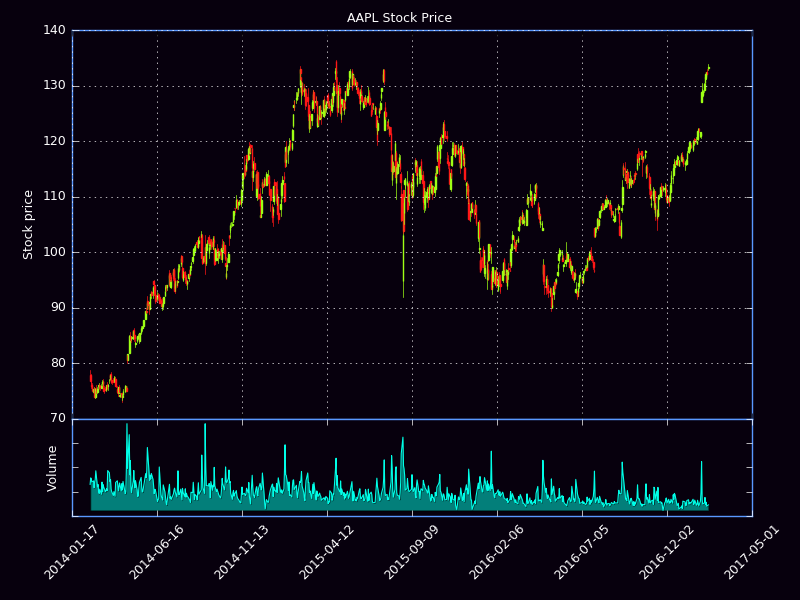
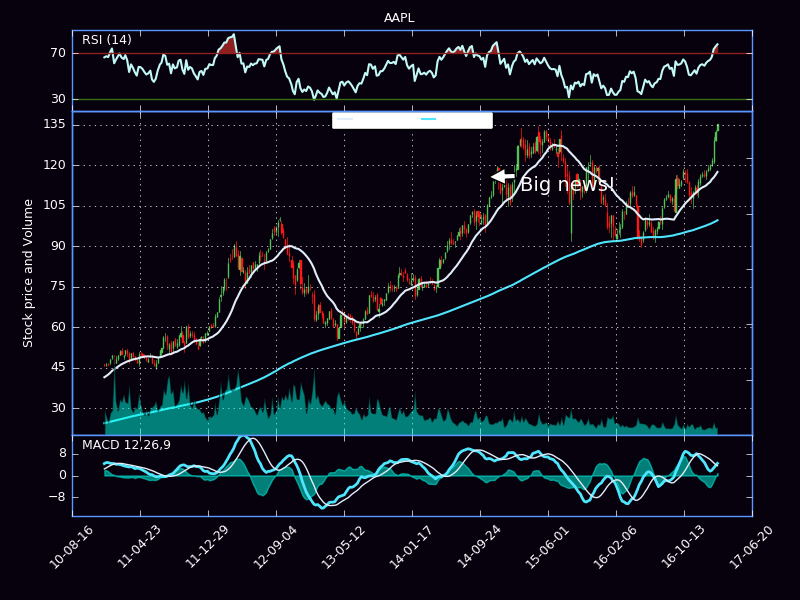
simulation added

diff --git a/PythonPlayground/Charting/basicGraph.py b/PythonPlayground/Charting/basicGraph.py
@@ -7,9 +7,9 @@ import matplotlib.dates as mdates
 from matplotlib.finance import _candlestick
 import matplotlib
 import pylab
+import urllib2
 matplotlib.rcParams.update({'font.size': 9})
 
-eachStock = 'EBAY', 'TSLA', 'AAPL'
 
 def rsiFunc(prices, n=14):
     deltas = np.diff(prices)
@@ -40,9 +40,45 @@ def movingaverage(values, window):
     smas = np.convolve(values, weights, 'valid')
     return smas
 
+def ExpMovingAverage(values, window):
+    weights = np.exp(np.linspace(-1., 0., window))
+    weights /= weights.sum()
+    a = np.convolve(values, weights, mode='full')[:len(values)]
+    a[:window] = a[window]
+    return a
+
+def computeMACD(x, slow=26, fast=12):
+    '''
+    macd line = 12ema - 26ema
+    signal line = 9ema of the macd line
+    histogram = macd line - signal line
+    '''
+    emaslow = ExpMovingAverage(x, slow)
+    emafast = ExpMovingAverage(x, fast)
+    return emaslow, emafast, emafast-emaslow
+
+
+
 def graphData(stock, MA1, MA2):
     try:
-        stockFile = stock +'.txt'
+        try:
+            print 'pulling data on',stock
+            urlToVisit = 'http://chartapi.finance.yahoo.com/instrument/1.0/'+stock+'/chartdata;type=quote;range=10y/csv'
+            stockFile = []
+            try:
+                sourceCode = urllib2.urlopen(urlToVisit).read()
+                splitSource = sourceCode.split('\n')
+                for eachLine in splitSource:
+                    splitLine = eachLine.split(',')
+                    if len(splitLine) == 6:
+                        if 'values' not in eachLine:
+                            stockFile.append(eachLine)
+        
+            except Exception, e:
+                print str(e), 'failed to organize pulled data'
+        
+        except Exception, e:
+            print str(e), 'failed to pull price data'
         
         date, closep, highp, lowp, openp, volume = np.loadtxt(stockFile, delimiter=',', unpack=True,
                          converters={0: mdates.strpdate2num('%Y%m%d')})
@@ -70,15 +106,16 @@ def graphData(stock, MA1, MA2):
 
 
 
-        ax1 = plt.subplot2grid((5,4), (1,0), rowspan=4, colspan=4, axisbg='#07000d')
-        _candlestick(ax1, candleAr[-SP:], width=.6, colorup='#9eff15', colordown='#ff1717')
+        ax1 = plt.subplot2grid((6,4), (1,0), rowspan=4, colspan=4, axisbg='#07000d')
+        _candlestick(ax1, candleAr[-SP:], width=.6, colorup='#53C156', colordown='#ff1717')
 
-        ax1.plot(date[-SP:], Av1[-SP:],'#5998ff',label=label1, linewidth=1.5)
-        ax1.plot(date[-SP:], Av2[-SP:],'#e1edf9',label=label2, linewidth=1.5)
+        ax1.plot(date[-SP:], Av1[-SP:],'#e1edf9',label=label1, linewidth=1.5)
+        ax1.plot(date[-SP:], Av2[-SP:],'#4ee6fd',label=label2, linewidth=1.5)
 
         ax1.grid(True, color='w')
         ax1.xaxis.set_major_locator(mticker.MaxNLocator(10))
         ax1.xaxis.set_major_formatter(mdates.DateFormatter('%y-%m-%d'))
+        plt.gca().yaxis.set_major_locator(mticker.MaxNLocator(prune='upper'))
         ax1.yaxis.label.set_color("w")
         ax1.spines['bottom'].set_color("#5998ff")
         ax1.spines['top'].set_color("#5998ff")
@@ -88,8 +125,7 @@ def graphData(stock, MA1, MA2):
         ax1.tick_params(axis='x', colors='w')
         plt.ylabel('Stock price and Volume')
 
-        for label in ax1.xaxis.get_ticklabels():
-            label.set_rotation(45)
+
 
 
 
@@ -99,57 +135,34 @@ def graphData(stock, MA1, MA2):
         pylab.setp(textEd[0:5], color = 'w')
 
 
-        ax0 = plt.subplot2grid((5,4), (0,0), sharex=ax1, rowspan=1, colspan=4, axisbg='#07000d')
+        ax0 = plt.subplot2grid((6,4), (0,0), sharex=ax1, rowspan=1, colspan=4, axisbg='#07000d')
         
         rsi = rsiFunc(closep)
 
-        rsiCol = '#00ffe8'
+        rsiCol = '#c1f9f7'
+        posCol = '#386d13'
+        negCol = '#8f2020'
         ax0.plot(date[-SP:], rsi[-SP:],rsiCol,linewidth=1.5)
-        ax0.axhline(70, color = rsiCol)
-        ax0.axhline(30, color = rsiCol)
+        ax0.axhline(70, color = negCol)
+        ax0.axhline(30, color = posCol)
         ax0.fill_between(date[-SP:], rsi[-SP:],70, 
-                            where=(rsi[-SP:] >= 70), facecolor=rsiCol, edgecolor=rsiCol)
+                            where=(rsi[-SP:] >= 70), facecolor=negCol, edgecolor=negCol)
 
         ax0.fill_between(date[-SP:], rsi[-SP:],30, 
-                            where=(rsi[-SP:] <= 30), facecolor=rsiCol, edgecolor=rsiCol)
+                            where=(rsi[-SP:] <= 30), facecolor=posCol, edgecolor=posCol)
         ax0.spines['bottom'].set_color("#5998ff")
         ax0.spines['top'].set_color("#5998ff")
         ax0.spines['left'].set_color("#5998ff")
         ax0.spines['right'].set_color("#5998ff")
+        ax0.text(0.015, 0.95,'RSI (14)', va='top', color='w', transform=ax0.transAxes)
         ax0.tick_params(axis='x', colors='w')
         ax0.tick_params(axis='y', colors='w')
         ax0.set_yticks([30,70])
         ax0.yaxis.label.set_color("w")
         #plt.gca().yaxis.set_major_locator(mticker.MaxNLocator(prune='lower'))
-        plt.ylabel('RSI')
         
 
         volumeMin = 0
-        
-        '''
-        ax2 = plt.subplot2grid((5,4), (4,0), sharex=ax1, rowspan=1, colspan=4, axisbg='#07000d')
-        ax2.plot(date, volume, '#00ffe8', linewidth=.8)
-        ax2.fill_between(date, volumeMin, volume, facecolor='#00ffe8', alpha=.5)
-        ax2.axes.yaxis.set_ticklabels([])
-        plt.ylabel('Volume')
-        ax2.grid(False)
-        ax2.spines['bottom'].set_color("#5998ff")
-        ax2.spines['top'].set_color("#5998ff")
-        ax2.spines['left'].set_color("#5998ff")
-        ax2.spines['right'].set_color("#5998ff")
-        ax2.tick_params(axis='x', colors='w')
-        ax2.tick_params(axis='y', colors='w')
-
-
-        plt.ylabel('Volume', color=  'w')      
-        ax1.xaxis.set_major_locator(mticker.MaxNLocator(10))
-        ax1.xaxis.set_major_formatter(mdates.DateFormatter('%Y-%m-%d'))
-
-        for label in ax1.xaxis.get_ticklabels():
-            label.set_rotation(90)
-
-        for label in ax2.xaxis.get_ticklabels():
-            label.set_rotation(45)'''
 
 
         ax1v = ax1.twinx()
@@ -163,12 +176,47 @@ def graphData(stock, MA1, MA2):
         ax1v.set_ylim(0, 2*volume.max())
         ax1v.tick_params(axis='x', colors='w')
         ax1v.tick_params(axis='y', colors='w')
+
+
+
+        ax2 = plt.subplot2grid((6,4), (5,0), sharex=ax1, rowspan=1, colspan=4, axisbg='#07000d')
+        fillcolor = '#00ffe8'
+        nslow = 26
+        nfast = 12
+        nema = 9
+        
+        emaslow, emafast, macd = computeMACD(closep)
+        ema9 = ExpMovingAverage(macd, nema)
+        
+        ax2.plot(date[-SP:], macd[-SP:], color='#4ee6fd', lw=2)
+        ax2.plot(date[-SP:], ema9[-SP:], color='#e1edf9', lw=1)
+        ax2.fill_between(date[-SP:], macd[-SP:]-ema9[-SP:], 0, 
+                        alpha=0.5, facecolor=fillcolor, edgecolor=fillcolor)
+        ax2.text(0.015, 0.95, 'MACD 12,26,9', va='top', color='w', transform=ax2.transAxes)
+        ax2.spines['bottom'].set_color("#5998ff")
+        ax2.spines['top'].set_color("#5998ff")
+        ax2.spines['left'].set_color("#5998ff")
+        ax2.spines['right'].set_color("#5998ff")
+        ax2.tick_params(axis='x', colors='w')
+        ax2.tick_params(axis='y', colors='w')
+        ax2.yaxis.set_major_locator(mticker.MaxNLocator(nbins=5, prune='upper'))
+
+        for label in ax2.xaxis.get_ticklabels():
+            label.set_rotation(45)
+        
         
 
         plt.suptitle(stock, color='w')
 
 
         plt.setp(ax0.get_xticklabels(), visible=False)
+        plt.setp(ax1.get_xticklabels(), visible=False)
+
+        ax1.annotate('Big news!', (date[400], Av1[400]), xytext=(0.8, 0.8), 
+                    textcoords='axes fraction', 
+                    arrowprops=dict(facecolor='white',shrink=0.05),
+                    fontsize='14', color = 'w', 
+                    horizontalalignment='right', verticalalignment='top')
 
         plt.subplots_adjust(left=.09, bottom=.14, right=.94, top=.95, wspace=.20, hspace=0)
 
@@ -178,8 +226,8 @@ def graphData(stock, MA1, MA2):
     except Exception, e:
         print 'failed main loop', str(e)
 
-for stock in eachStock:
-    graphData(stock,20,200)
-    time.sleep(555)
+while True:
+    stockToUse = raw_input('Stock to chart: ')
+    graphData(stockToUse,20,200)
 
 

diff --git a/PythonPlayground/Simulation.py b/PythonPlayground/Simulation.py
@@ -8,6 +8,7 @@ import pandas as pd
 import pandas_datareader.data as web
 import pickle
 import requests
+import sys
 
 style.use('ggplot')
 
@@ -112,8 +113,9 @@ def loop_data():
     aapl_df = pd.read_csv('stock_dfs/AAPL.csv')
 
     
-    highest_volume_days(fb_df, num_days=10)
-    percentage_change(fb_df, percent_change=.10)
+    #highest_volume_days(fb_df, num_days=10)
+    #percentage_change(fb_df, percent_change=.10)
+    simulate_returns(fb_df, percent_change=.05, num_days=10)
     
     
 
@@ -155,7 +157,28 @@ def percentage_change(df, percent_change=.10):
             print('Loss of', '{0:.2f}'.format(100 * (1 - (adj_closes[i+1] / adj_closes[i]))) + '%') 
             print('Date', dates[i])
             print('')
-        
+
+#Simulate buying stock one day after a big gain/loss
+#Calculate returns for num_days in the future
+def simulate_returns(df, percent_change=.10, num_days=10):
+    dates = list(df['Date'])
+    adj_closes = list(df['Adj Close'])
+
+    #Loop through dates 2000-2016 (if existing)
+    for i in range(len(dates)-1):
+        change = (adj_closes[i+1] - adj_closes[i]) / adj_closes[i]
+        if (change > percent_change or change < -1 * percent_change):
+            print('Date', dates[i])
+            print('Current price', adj_closes[i])
+            print('Change of', '{0:.2f}'.format(100*change) + '%')
+            for j in range(1, num_days):
+                print(j, 'days in the future the price is:', adj_closes[j+i])
+                next_change = 100 * (adj_closes[i+j] - adj_closes[i+1]) / adj_closes[i+1]
+                if j == 1:
+                    print('BUY STOCK')
+                else:
+                    print('Change of', '{0:.2f}'.format(next_change) + '%')
+            print('')
 
 loop_data()
 

diff --git a/PythonPlayground/Charting/AnimTutorial.py b/PythonPlayground/Charting/AnimTutorial.py
@@ -1,0 +1,22 @@
+import matplotlib.pyplot as plt
+import matplotlib.animation as animation
+import time
+
+fig = plt.figure()
+
+def animate(i):
+    ax1 = fig.add_subplot(1,1,1)
+    pullData = open('sampleText.txt', 'r').read()
+    dataArray = pullData.split('\n')
+    xar = []
+    yar = []
+    for eachLine in dataArray:
+        if len(eachLine) > 1:
+            x, y = eachLine.split(',')
+            xar.append(int(x))
+            yar.append(int(y))
+    ax1.clear()
+    ax1.plot(xar,yar)
+    
+ani = animation.FuncAnimation(fig, animate, interval=1000)
+plt.show()
